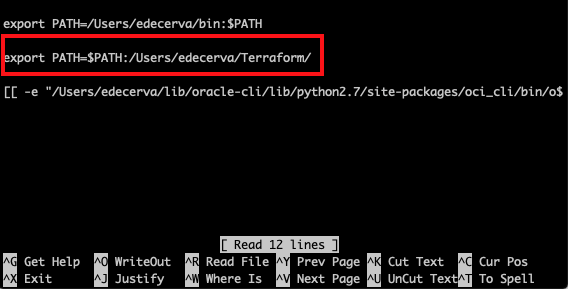
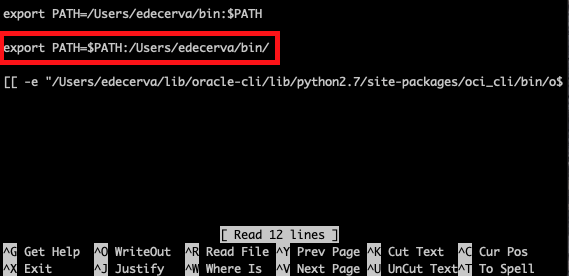
made instructions more clear

Changed region(s): [[0.0, 0.0, 1.0, 1.0], [0.0, 0.8116, 0.9577, 1.0]]

diff --git a/workshops/python4atp/LabGuide050.md b/workshops/python4atp/LabGuide050.md
@@ -62,7 +62,7 @@ See these instructions for [Download of Terraform](https://learn.hashicorp.com/t
 
     ![](images/050/018.1.png)
 
-- Once the download finishes, in your home folder create a directory called `Terraform`. Then move the zip file you downloaded into this directory. Open the zip file and verify that you see the binary file in your newly created `Terraform` directory.
+- Once the download finishes, in your home directory look for a folder called `bin`. Move the zip file you downloaded into this directory. Open the zip file and verify that you see the binary file in the `bin` directory.
 
     ![](images/050/019.png)
 
@@ -76,7 +76,7 @@ The following steps are for Linux and Mac users. Windows users see [here](https:
 
 - Add the following path to your bash_profile. Press ctrl + o to save, then press enter. Next, ctrl + x to exit.
 
-    `export PATH=$PATH:/path-to/your-folder/Terraform/`
+    `export PATH=$PATH:/path-to/your/bin/`
 
     ![](images/050/057.png)
 
@@ -133,7 +133,9 @@ See these instructions for [Download and Install of CLI](https://docs.cloud.orac
 
 - Once you have the CLI installed,
 
-    run `$ oci setup config`
+    Run `$ source .bash_profile`
+
+    Run `$ oci setup config`
 
     Press enter to choose the default location for the config file
 
@@ -283,7 +285,7 @@ See these instructions for [Download and Install of CLI](https://docs.cloud.orac
 - SSH to the image. 
     **Note if you are on Windows you will need to use putty.**
     Open a terminal window on a Mac or command shell on Linux and enter the following command: 
-    `$ ssh -i privateKey opc@<your IP address>`.  
+    `$ ssh -i <your private key> opc@<your IP address>`
 
 	![](images/050/036.png)
 
@@ -304,7 +306,7 @@ See these instructions for [Download and Install of CLI](https://docs.cloud.orac
 
      This example works on Linux and MAC. Note: on Linux you will need to be su.
 
-     `$ ssh -i <your private key> -L 5901:localhost:5901 opc@<your marketplace compute IP>`
+     `$ ssh -i <your private key> -L 5901:localhost:5901 opc@<your IP address>`
 
     ![](images/050/039.png)
 
@@ -317,13 +319,24 @@ See these instructions for [Download and Install of CLI](https://docs.cloud.orac
 
 ### **STEP 10:** Download Files Used in this Workshop
 
-**Click to Download.  Save the file to your Downloads directory.**
+**[Click to Download](https://oracle.github.io/learning-library/workshops/python4atp/lab-resources.zip). Keep track of which directory this zip file gets saved to.**
 
-[lab-resources.zip](https://oracle.github.io/learning-library/workshops/python4atp/lab-resources.zip)
+<!-- [lab-resources.zip](https://oracle.github.io/learning-library/workshops/python4atp/lab-resources.zip) -->
+- Next, go back into your instance
 
-- Inside the Downloads folder, run this command
+    `$ ssh -i <your private key> opc@<your IP address>`
 
-    `$ scp lab-resources.zip -i privateKey opc@<your IP address>:/`
+    If you are prompted, enter `yes`.
+
+- Run `$ pwd` to view your home path. Then run `$ exit` to go back to your local environment. If your home path is different than the one below, then change it to yours.
+
+    `$ scp </path/to/lab-resources.zip> opc@<your IP address>:/home/opc`
+
+    If you are prompted, enter `yes`.
+
+- Finally, go back into your instance.
+    
+    Once inside, run `ls` to verify that you see your zip file.
 
     Now the zip file is in your instance!
 
